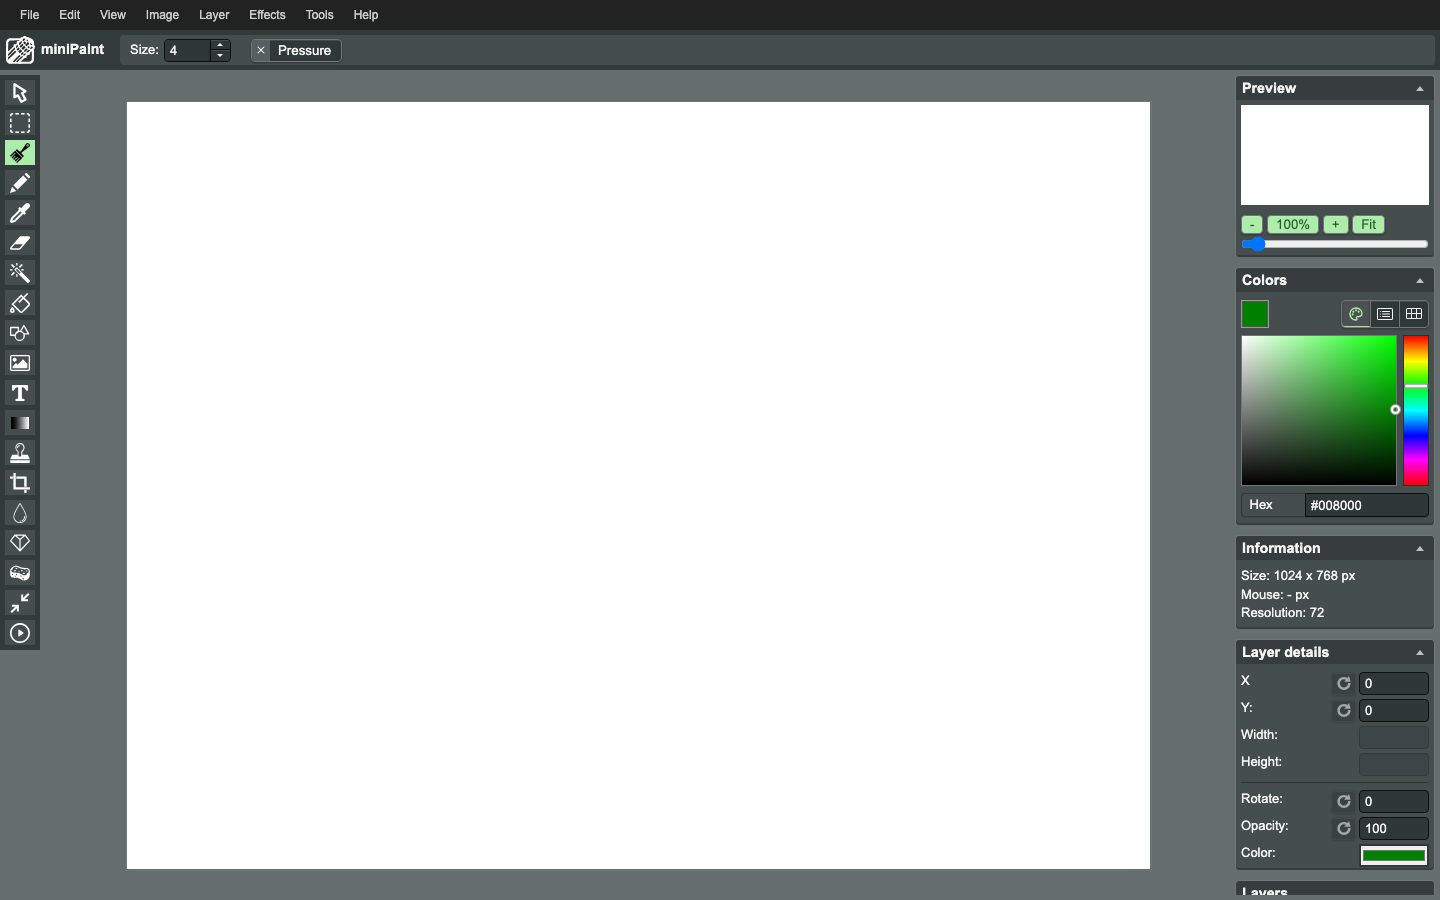
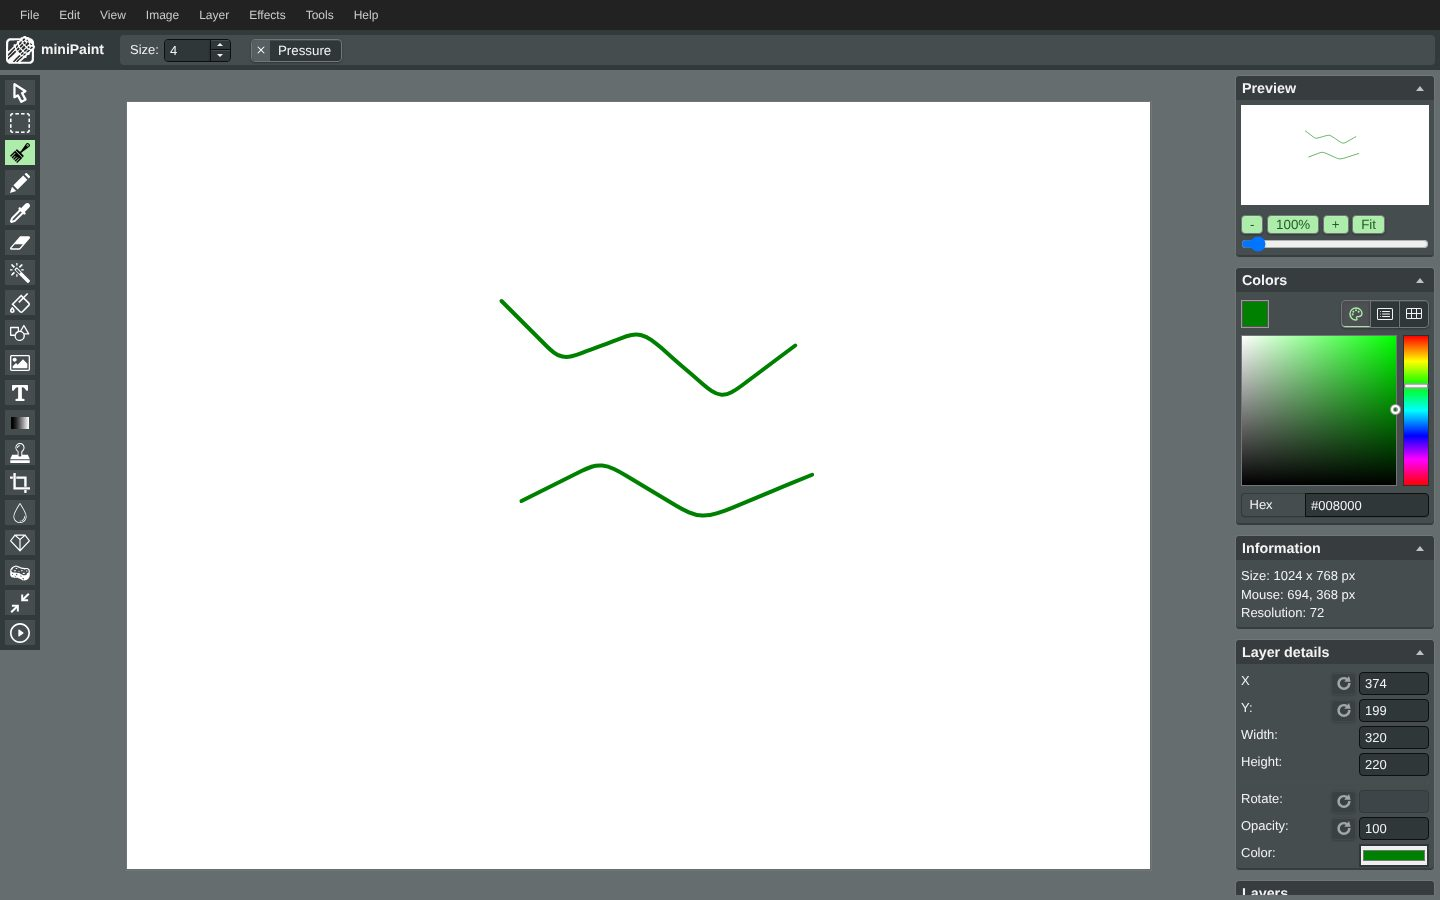
Library catalogue: verified licences, ports, commands and warnings for 28 launch-tested templates; miniPaint captures
Claude-Session: https://claude.ai/code/session_01JbLmXSfY1iESauPgynK7ed

diff --git a/lib/clyra-code/library/registry.ts b/lib/clyra-code/library/registry.ts
@@ -249,19 +249,100 @@ const seeds: readonly Seed[] = [
 
 /* Real captures, taken by cloning, installing and running each app locally (see provenance). Only apps that were actually run have any. */
 const CAPTURED: Record<string, Array<[file: string, alt: string]>> = {
+  activepieces: [["activepieces-1.jpg", "Activepieces project dashboard listing a flow"], ["activepieces-2.jpg", "Activepieces flow builder with an empty trigger step"], ["activepieces-3.jpg", "Activepieces trigger picker open on the canvas"]],
+  actual: [["actual-1.jpg", "Actual Budget welcome screen"], ["actual-2.jpg", "Actual monthly budget with categories"], ["actual-3.jpg", "Actual account register with transactions"], ["actual-4.jpg", "Actual reports dashboard"]],
   astrofy: [["astrofy-1.jpg", "Astrofy home page"], ["astrofy-2.jpg", "Astrofy project list"], ["astrofy-3.jpg", "Astrofy blog"]],
-  minipaint: [["minipaint-1.jpg", "miniPaint editor with tools, layers and colour panels"]],
-  "uptime-kuma": [["uptime-kuma-1.jpg", "Uptime Kuma first-run setup (database choice)"]],
+  "bolt-diy": [["bolt-diy-1.jpg", "bolt.diy home with provider picker and prompt box"], ["bolt-diy-2.jpg", "bolt.diy with the chat history sidebar open"], ["bolt-diy-3.jpg", "bolt.diy control panel for providers and integrations"]],
+  "code-server": [["code-server-1.jpg", "code-server password login"], ["code-server-2.jpg", "code-server editing a JavaScript file in the browser"], ["code-server-3.jpg", "code-server with the integrated terminal open"]],
+  docusaurus: [["docusaurus-1.jpg", "Docusaurus monorepo website home page"], ["docusaurus-2.jpg", "Docusaurus documentation page with sidebar"], ["docusaurus-3.jpg", "Docusaurus blog index and post"]],
+  excalidraw: [["excalidraw-1.jpg", "Excalidraw welcome screen"], ["excalidraw-2.jpg", "Excalidraw flowchart drawn with coloured shapes"], ["excalidraw-3.jpg", "Excalidraw flowchart in the dark theme"]],
+  formbricks: [["formbricks-1.jpg", "Formbricks first-run welcome"], ["formbricks-2.jpg", "Formbricks project setup with live survey preview"], ["formbricks-3.jpg", "Formbricks survey template gallery"], ["formbricks-4.jpg", "Formbricks survey editor with preview"]],
+  ghost: [["ghost-1.jpg", "Ghost publication front page"], ["ghost-2.jpg", "Ghost article page"], ["ghost-3.jpg", "Ghost admin analytics dashboard"], ["ghost-4.jpg", "Ghost admin post list"]],
+  gitea: [["gitea-1.jpg", "Gitea dashboard with activity feed"], ["gitea-2.jpg", "Gitea repository view with README"], ["gitea-3.jpg", "Gitea pull request diff"], ["gitea-4.jpg", "Gitea issue list"], ["gitea-5.jpg", "Gitea commit history"]],
+  hoppscotch: [["hoppscotch-1.jpg", "Hoppscotch REST request builder"], ["hoppscotch-2.jpg", "Hoppscotch response with status and body"], ["hoppscotch-3.jpg", "Hoppscotch GraphQL client"], ["hoppscotch-4.jpg", "Hoppscotch realtime WebSocket client"]],
+  hycanvas: [["hycanvas-1.jpg", "HyCanvas workspace home with design presets"], ["hycanvas-2.jpg", "HyCanvas template gallery"], ["hycanvas-3.jpg", "HyCanvas editor with a launch-card template"]],
+  librechat: [["librechat-1.jpg", "LibreChat new chat screen"], ["librechat-2.jpg", "LibreChat model and provider picker"], ["librechat-3.jpg", "LibreChat agent builder panel"], ["librechat-4.jpg", "LibreChat settings dialog"]],
+  metabase: [["metabase-2.jpg", "Metabase dashboard with KPI tiles and charts"], ["metabase-3.jpg", "Metabase saved question as a line chart"], ["metabase-1.jpg", "Metabase home after sign-in"], ["metabase-4.jpg", "Metabase browsing the sample database"]],
+  minipaint: [["minipaint-1.jpg", "miniPaint canvas with brush strokes, tools and colour panel"], ["minipaint-2.jpg", "miniPaint Effects menu with filters"], ["minipaint-3.jpg", "miniPaint Image menu"]],
+  navidrome: [["navidrome-1.jpg", "Navidrome album grid"], ["navidrome-2.jpg", "Navidrome album with track list"], ["navidrome-3.jpg", "Navidrome now-playing bar"], ["navidrome-4.jpg", "Navidrome song list"]],
+  nocodb: [["nocodb-1.jpg", "NocoDB spreadsheet grid of deals"], ["nocodb-2.jpg", "NocoDB kanban view grouped by stage"], ["nocodb-3.jpg", "NocoDB gallery view"], ["nocodb-4.jpg", "NocoDB form view"]],
+  openhands: [["openhands-4.jpg", "OpenHands workspace home with prompt and recommended automations"], ["openhands-1.jpg", "OpenHands onboarding: choose an agent"], ["openhands-2.jpg", "OpenHands onboarding: LLM settings"], ["openhands-3.jpg", "OpenHands onboarding: first message"]],
+  penpot: [["penpot-1.jpg", "Penpot board with a mobile wireframe"], ["penpot-2.jpg", "Penpot design panel for a selected layer"], ["penpot-3.jpg", "Penpot prototype tab"], ["penpot-4.jpg", "Penpot inspect tab with measurements"]],
+  perplexica: [["perplexica-4.jpg", "Perplexica (Vane) search home"], ["perplexica-2.jpg", "Perplexica add-connection dialog"], ["perplexica-3.jpg", "Perplexica model selection"]],
+  "saas-starter": [["saas-starter-1.jpg", "SaaS Starter landing page"], ["saas-starter-2.jpg", "SaaS Starter team settings dashboard"], ["saas-starter-3.jpg", "SaaS Starter general settings"], ["saas-starter-4.jpg", "SaaS Starter activity log"]],
+  umami: [["umami-1.jpg", "Umami overview with visitors, views and traffic chart"], ["umami-2.jpg", "Umami breakdown by page path"], ["umami-3.jpg", "Umami sessions list with browser and location"], ["umami-4.jpg", "Umami period comparison"]],
+  "uptime-kuma": [["uptime-kuma-1.jpg", "Uptime Kuma dashboard with monitors up and one down"], ["uptime-kuma-2.jpg", "Uptime Kuma monitor detail with response-time chart"], ["uptime-kuma-3.jpg", "Uptime Kuma monitor in the down state"], ["uptime-kuma-4.jpg", "Uptime Kuma add-monitor form"]],
+  "vercel-chatbot": [["vercel-chatbot-1.jpg", "Vercel AI Chatbot empty chat with suggestions"], ["vercel-chatbot-2.jpg", "Vercel AI Chatbot model picker"], ["vercel-chatbot-3.jpg", "Vercel AI Chatbot register page"]],
+  wekan: [["wekan-1.jpg", "WeKan kanban board with four lists"], ["wekan-2.jpg", "WeKan card detail panel"], ["wekan-3.jpg", "WeKan all-boards view"]],
+};
+
+/* Facts observed while launch-testing each app on 2026-11-10; they replace the generic unverified warnings. */
+type Verified = {
+  license?: string;
+  status: TemplateStatus;
+  port?: number;
+  dev?: string;
+  build?: string[];
+  footprint?: string;
+  secrets?: string[];
+  commit?: string;
+  verified: string[];
+  notes: string[];
+};
+const VERIFIED: Record<string, Verified> = {
+  activepieces: { license: "License review", status: "requires-setup", port: 8080, dev: "docker compose up -d", commit: "217384ba", footprint: "Docker: app + worker + Postgres(pgvector) + Redis; ~2 GB images.", verified: ["Starts and serves the UI", "Sign-up and project dashboard"], notes: ["MIT outside packages/ee and server/api/src/app/ee, which are commercial: review before distributing.", "The documented compose uses ghcr.io images; the sandbox blocks ghcr, so Docker Hub activepieces/activepieces was used.", "The server hard-codes IPv6 listen (::); on hosts without IPv6 it needs patching.", "Piece catalogue stays empty without access to the cloud piece registry, so no flow could be built offline."] },
+  actual: { license: "MIT", status: "runnable-now", port: 3001, dev: "yarn start:browser", build: ["yarn install"], commit: "5ffb72a", footprint: "~1 GB node_modules; install ~80 s.", verified: ["Install", "Browser dev server", "Demo budget, accounts and reports"], notes: ["Needs Yarn 4 (corepack download may be blocked; install @yarnpkg/cli-dist from npm).", "Runs with Node 22; no external services."] },
+  astrofy: { license: "MIT", status: "runnable-now", port: 4321, dev: "npm run dev", build: ["npm install"], commit: "9398dea", footprint: "npm install ~20 s.", verified: ["Install and dev server (re-checked)", "Home, projects and blog pages"], notes: ["Static site; no external services.", "Screenshots are from an earlier pass; this pass re-confirmed install and boot only."] },
+  "bolt-diy": { license: "MIT", status: "requires-setup", port: 5173, dev: "pnpm exec react-router dev --host 127.0.0.1", build: ["pnpm install"], commit: "353b44c", secrets: ["A model provider API key"], footprint: "pnpm install ~12 s.", verified: ["Install", "Dev server and UI"], notes: ["README `pnpm run dev` binds IPv6 (`--host ::`) and fails on hosts without IPv6; use an IPv4 host.", "UI renders without a key; generating apps needs your own model provider key (not tested)."] },
+  "code-server": { license: "MIT", status: "requires-setup", port: 8080, dev: "docker run -p 8080:8080 -e PASSWORD=… codercom/code-server", commit: "fcd14dc", footprint: "Docker image ~0.7 GB.", verified: ["Official image runs", "Login, editor and terminal in the browser"], notes: ["Verified through the official Docker image, not a source build (the source build needs the VS Code toolchain).", "The install.sh script host is blocked in some environments."] },
+  docusaurus: { license: "MIT", status: "requires-setup", port: 3000, dev: "pnpm --filter website start", build: ["pnpm install --frozen-lockfile"], commit: "c00f04e", footprint: "pnpm install ~45 s plus package builds.", verified: ["Install", "The monorepo's own documentation website"], notes: ["Cloning gives the framework monorepo, not a starter site; the screenshots show the monorepo's own website.", "Needs Node 24 or newer (RegExp.escape); Node 22 fails."] },
+  excalidraw: { license: "MIT", status: "runnable-now", port: 3001, dev: "yarn start", build: ["yarn install"], commit: "701b901", footprint: "yarn install ~60 s.", verified: ["Install", "Dev server", "Drawing, fills, text and dark theme"], notes: ["`yarn start` opens a browser; on headless hosts set BROWSER=none.", "No external services."] },
+  formbricks: { license: "License review", status: "requires-setup", port: 3000, dev: "docker run formbricks/formbricks (with Postgres + Valkey)", commit: "4d9a14f", secrets: ["NEXTAUTH_SECRET", "ENCRYPTION_KEY", "CRON_SECRET"], footprint: "Docker: app + pgvector Postgres + Valkey.", verified: ["Setup wizard", "Organisation and project", "Survey templates and editor"], notes: ["AGPLv3 outside apps/web/modules/ee and the SDK directories, which carry other licences: review before distributing.", "The repo compose and installer use ghcr.io images and Traefik with Let's Encrypt; Docker Hub formbricks/formbricks was used.", "Start-up migration needs outbound npm access; email needs SMTP (verification disabled for the test)."] },
+  ghost: { license: "MIT", status: "requires-setup", port: 2368, dev: "docker run ghost", commit: "912930c", footprint: "Docker image ~0.5 GB.", verified: ["Official image runs on SQLite", "Site, posts and admin"], notes: ["Verified via the official Docker image.", "On hosts without IPv6 set server__host=0.0.0.0; staff device verification emails need a mail provider."] },
+  gitea: { license: "MIT", status: "runnable-now", port: 3300, dev: "./gitea web", build: ["TAGS=\"bindata sqlite sqlite_unicode\" make build"], commit: "25c5b6a", footprint: "Build ~2.5 min; binary ~120 MB.", verified: ["Built from source", "SQLite install", "Repos, issues, pull requests"], notes: ["Needs a recent Go toolchain (downloaded automatically) and Node to build the frontend.", "Refuses to run as root unless GITEA_I_AM_BEING_UNSAFE_RUNNING_AS_ROOT=true."] },
+  hoppscotch: { license: "MIT", status: "requires-setup", port: 3000, dev: "docker compose up -d (hoppscotch/hoppscotch AIO + Postgres)", commit: "55908a7", secrets: ["JWT_SECRET", "SESSION_SECRET", "DATA_ENCRYPTION_KEY"], footprint: "Docker: AIO image ~1.2 GB + Postgres.", verified: ["Official AIO image and Postgres run", "REST, GraphQL and realtime clients"], notes: ["Verified via the prebuilt image; the repo's own compose builds from source and was not run.", "The backend exits once on first boot and needs a restart policy.", "Sign-in needs SMTP or OAuth; the client works anonymously."] },
+  hycanvas: { license: "AGPL-3.0", status: "requires-setup", port: 8005, dev: "docker compose up -d (docker/docker-compose.yml)", commit: "ba7b2c0", secrets: ["JWT_SECRET"], footprint: "Docker: app image + Postgres 16.", verified: ["Compose quickstart runs in ~20 s", "Sign-up, templates and editor"], notes: ["AGPL-3.0; COMMERCIAL.md describes a commercial alternative.", "Quickstart uses the prebuilt hycanvas/hycanvas image."] },
+  librechat: { license: "MIT", status: "requires-setup", port: 3080, dev: "npm run backend", build: ["npm install", "npm run frontend"], commit: "f4154b6", secrets: ["A model provider API key (not set)"], footprint: "~3000 packages; frontend build ~35 s; MongoDB required.", verified: ["Built from source", "Registration, chat UI, agent builder, settings"], notes: ["The documented compose image host (registry.librechat.ai) was blocked; ran from source with MongoDB in Docker.", "npm ci failed because xlsx is pinned to cdn.sheetjs.com; the registry xlsx was substituted for the test.", "Needs MongoDB; chatting needs your own model API keys."] },
+  metabase: { license: "License review", status: "requires-setup", port: 3000, dev: "docker run -p 3000:3000 metabase/metabase", commit: "da359da4", footprint: "Docker image ~0.5 GB; source build needs a JDK 21 and Clojure toolchain.", verified: ["Official image runs", "Setup, saved questions and dashboard on the sample database"], notes: ["Mixed licence: AGPL outside /enterprise, Metabase Commercial License inside /enterprise.", "Verified via the official Docker image, not a source build."] },
+  minipaint: { license: "MIT", status: "runnable-now", dev: "npm run build, then serve the folder statically", build: ["npm install", "npm run build"], commit: "c9192c1", footprint: "npm install ~10 s, webpack build ~17 s.", verified: ["Install and production build", "Served as a static site; drawing and menus"], notes: ["The licence file is MIT-LICENSE.txt (which is why it is not auto-detected) and package.json also says MIT.", "Runs as a static site; no external services."] },
+  navidrome: { license: "GPL-3.0", status: "requires-setup", port: 4533, dev: "docker run -p 4533:4533 -v ./music:/music deluan/navidrome", commit: "93cead9", footprint: "Docker image ~0.1 GB.", verified: ["Official image runs", "Library scan, albums, playback bar"], notes: ["Verified via the official image; a source build needs Go, Node and TagLib.", "Needs a music library; the demo used generated tracks."] },
+  nocodb: { license: "License review", status: "requires-setup", port: 8080, dev: "docker run -p 8080:8080 nocodb/nocodb", commit: "7f1f236", footprint: "Docker image ~1.3 GB; SQLite by default.", verified: ["Official image runs", "Grid, kanban, gallery and form views"], notes: ["Not open source: LICENSE.md is the Sustainable Use License v1.0 (internal business or non-commercial use; redistribution only free of charge for non-commercial purposes).", "Verified via the official image; the repo's pnpm monorepo was not built."] },
+  openhands: { license: "MIT", status: "requires-setup", port: 8000, dev: "npm run dev", build: ["npm ci"], commit: "e14b76c", secrets: ["An LLM API key"], footprint: "npm ci ~40 s; uses uvx for the agent server.", verified: ["Install", "Agent Canvas UI and onboarding"], notes: ["The project is now Agent Canvas; the README source path needs Node 24 or newer.", "The Docker option uses a ghcr.io image.", "An agent run needs an LLM API key (not tested)."] },
+  penpot: { license: "MPL-2.0", status: "requires-setup", port: 9001, dev: "docker compose -p penpot up -d (docker/images/docker-compose.yaml)", commit: "cd1ece4", footprint: "Docker: 8 services, ~3 GB of images.", verified: ["Stack runs", "Sign-up, board with shapes, prototype and inspect tabs"], notes: ["The frontend nginx needs IPv6; on hosts without it set PENPOT_IPV6_LISTEN_DIRECTIVE to a comment.", "Uses prebuilt penpotapp images; built-in template libraries need internet."] },
+  perplexica: { license: "MIT", status: "requires-setup", port: 3000, dev: "docker run -p 3000:3000 itzcrazykns1337/vane", commit: "348feca", secrets: ["A model provider key or local model"], footprint: "Docker image; SearxNG bundled in the full image.", verified: ["Official image runs", "Setup wizard and search home"], notes: ["The repository is now Vane; the clone URL redirects.", "The setup wizard needs a model connection; live search was not tested without a key."] },
+  "saas-starter": { license: "MIT", status: "requires-setup", port: 3000, dev: "pnpm dev", build: ["pnpm install", "pnpm db:migrate", "pnpm db:seed"], commit: "6e33e58", secrets: ["POSTGRES_URL", "AUTH_SECRET", "STRIPE_SECRET_KEY", "STRIPE_WEBHOOK_SECRET"], footprint: "pnpm install ~6 s; Postgres in Docker.", verified: ["Install, migrations", "Landing page, sign-in and dashboard"], notes: ["db:seed creates test@test.com and then needs a live Stripe key to create products; with a dummy key it stops after the user is created.", "The pricing page needs the Stripe API and errors without it."] },
+  umami: { license: "MIT", status: "requires-setup", port: 3000, dev: "pnpm run start", build: ["pnpm install", "pnpm run build"], commit: "559e3c6", secrets: ["DATABASE_URL"], footprint: "Install ~10 s, build ~90 s; Postgres in Docker.", verified: ["Build, migrations, start", "Website analytics views with generated traffic"], notes: ["Default login is admin / umami: change it.", "`next start` warns about output: standalone but works."] },
+  "uptime-kuma": { license: "MIT", status: "requires-setup", port: 3001, dev: "node --import=tsx server/server.js", build: ["npm ci", "npm run build"], commit: "fb8ef0f", footprint: "npm ci ~25 s, frontend build ~5 s; SQLite.", verified: ["Install and build", "Setup wizard, monitors, dashboard"], notes: ["The current branch needs Node 26.2 or newer; the README's plain `node server/server.js` fails on this branch.", "Account setup checks passwords against haveibeenpwned; set UPTIME_KUMA_DISABLE_LEAK_PWD_CHECK=1 on offline hosts."] },
+  "vercel-chatbot": { license: "Apache-2.0", status: "requires-setup", port: 3000, dev: "pnpm dev", build: ["pnpm install", "pnpm db:migrate"], commit: "a8989b5", secrets: ["POSTGRES_URL", "AUTH_SECRET", "AI_GATEWAY_API_KEY"], footprint: "pnpm install ~6 s; Postgres in Docker.", verified: ["Install and migrations", "Chat UI as a guest"], notes: ["Licence verified: Apache-2.0.", "Replies need an AI Gateway key (not tested)."] },
+  wekan: { license: "MIT", status: "requires-setup", port: 80, dev: "docker compose (MongoDB 7 + wekanteam/wekan)", commit: "bc69880", footprint: "Docker: MongoDB + app ~2.5 GB.", verified: ["Stack runs", "Registration, boards, lists and cards"], notes: ["The default compose uses ghcr.io images and a FerretDB download; Docker Hub wekanteam/wekan with MongoDB 7 was used.", "The placeholder MAIL_URL crashes start-up; set a valid smtp:// URL."] },
+  opencut: { license: "MIT", status: "requires-setup", port: 5173, dev: "bun run dev (apps/web)", build: ["bun install"], commit: "e668010", footprint: "bun install ~6 s.", verified: ["Install and dev server start"], notes: ["The default branch is a rewrite in progress: apps/web renders only a placeholder page, so no screenshots were taken.", "The README points to opencut-classic as the working editor."] },
 };
 
 function withCaptures(manifest: TemplateManifest): TemplateManifest {
   const shots = CAPTURED[manifest.id];
-  if (!shots) return manifest;
+  const facts = VERIFIED[manifest.id];
+  let out = manifest;
+  if (facts) {
+    out = {
+      ...out,
+      licenseSpdxOrReview: facts.license ?? out.licenseSpdxOrReview,
+      status: facts.status,
+      port: facts.port ?? out.port,
+      devCommand: facts.dev ?? out.devCommand,
+      buildCommands: facts.build ?? out.buildCommands,
+      estimatedBuildFootprint: facts.footprint ?? out.estimatedBuildFootprint,
+      requiredSecrets: facts.secrets ?? out.requiredSecrets,
+      capabilitiesVerified: facts.verified,
+      lastVerifiedAt: "2026-11-10T00:00:00.000Z",
+      warnings: facts.notes,
+    };
+  }
+  if (!shots) return out;
   const capturedAt = "2026-11-10";
   return {
-    ...manifest,
+    ...out,
     sourceScreenshots: shots.map(([file, alt]) => ({ url: `/library-shots/${file}`, alt, capturedAt, provenance: "Captured by Clyra from a local run of the unmodified upstream source." })),
-    captureProvenance: "Captured from a local run of the upstream source on 2026-11-10.",
+    captureProvenance: `Captured from a local run of the upstream source on 2026-11-10${facts?.commit && facts.commit !== "n/a" ? ` (commit ${facts.commit})` : ""}.`,
   };
 }
 
